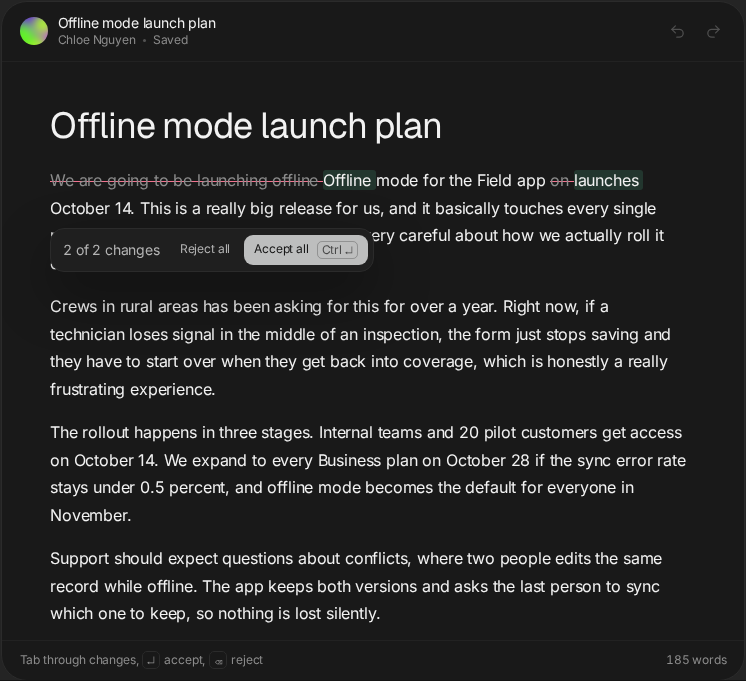
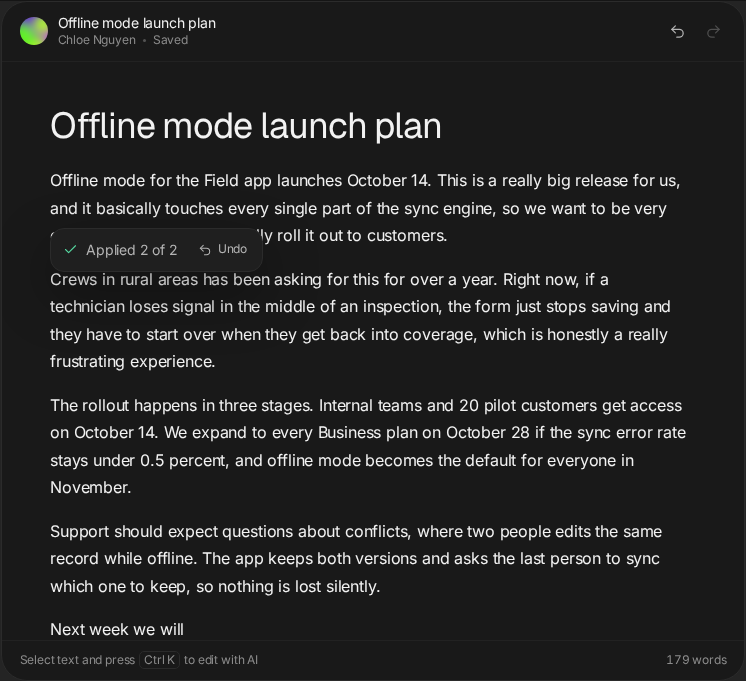
gnhf 10: Iteration 10 delivered the C7 evidence (25 committed same-size Runes-vs-Arc side-by-side comparisons at 1440x900 and 390x844 with an 18-row differences table under docs/screenshots/ai-inline-edit-compare/) and repaired two C1 reference-integrity defects (replaced the duplicated "applied rec

Changed region(s): [[0.0308, 0.2467, 0.9249, 0.9868], [0.8941, 0.9559, 0.9249, 0.9868], [0.8941, 0.0308, 0.9249, 0.0617]]

diff --git a/docs/screenshots/ai-inline-edit-compare/README.md b/docs/screenshots/ai-inline-edit-compare/README.md
@@ -1,0 +1,103 @@
+# Runes AI vs Arc UI reference — same-size side-by-side comparisons
+
+Every file in this folder is a two-panel comparison: **left = Arc UI public demo**, **right =
+Runes AI on this branch**. Both panels are crops of full screenshots taken at the **same viewport
+size**, with the **same crop rule** (full viewport width, `y = 10`, 760 px tall at 1440x900 and
+704 px tall at 390x844), so nothing is cropped horizontally on either side and the two panels of a
+pair are pixel-for-pixel the same dimensions.
+
+| Viewport tag | Size | Used for |
+| --- | --- | --- |
+| desktop | 1440x900 | `compare-01` … `compare-20`, `compare-25` |
+| narrow | 390x844 | `compare-21` … `compare-24` |
+
+## How each side was captured
+
+- **Arc panels** (`arc-*-desktop`, `arc-*-narrow`): the public previews
+  `uiarc.dev/components/blocks/ai-inline-edit` and `uiarc.dev/components/ghost-text`, driven with
+  headless Chromium (selection set programmatically, then real clicks/keys), captured 2026-11-01.
+  Visual/behavior reference only — no Pro source, markup or assets were taken. The tight per-state
+  crops stay in [`../ai-inline-edit-reference/`](../ai-inline-edit-reference/README.md) with the
+  observed-vs-described labels.
+- **Runes panels** (`runes-*-desktop`, `runes-*-narrow`): a local `next dev` server on this branch,
+  driven with Playwright + headless Chromium through the real Monaco editor (pointer clicks, real
+  keys, `Ctrl+S`), authenticated with the repo's `DEV_AUTH_BYPASS` dev session.
+- **No live AI provider key exists in this environment.** The Runes answers come from the
+  development-only, env-gated stub (`src/lib/ai-dev-stub.ts`, `AI_DEV_STUB=1`), which replaces only
+  the provider *reply*; auth, writable-document checks, quota, the single active slot,
+  protected-token masking/restore, size caps and the 15 s timeout still run on it. Text is therefore
+  deterministic (`Overall, …`, filler removal, contraction expansion) and **no pair proves the
+  behaviour of a real model**.
+- Runes frames use **Code view** (source only). Markdown pairs use a `.md` document; the ghost-text
+  desktop frames use a `.tex` document, and `../ai-inline-edit-runes/ghost/10-markdown-accepted.png`
+  shows the same flow in Markdown.
+
+## Pairs
+
+| File | State compared |
+| --- | --- |
+| `compare-01-inline-idle.png` | Idle editor + shortcut hint |
+| `compare-02-inline-selection-bubble.png` | Eligible selection with the Edit bubble |
+| `compare-03-inline-prompt-quick-actions.png` | Prompt with quick actions |
+| `compare-04-inline-typed-instruction.png` | Bounded free instruction typed |
+| `compare-05-inline-streaming-stop.png` | Streaming with Stop |
+| `compare-06-inline-review-open.png` | Word-diff review, nothing decided yet |
+| `compare-07-inline-review-focused-change.png` | One change focused after `Tab` |
+| `compare-08-inline-accepted-change.png` | Per-change accept |
+| `compare-09-inline-rejected-change.png` | Per-change reject |
+| `compare-10-inline-applied-receipt.png` | Applied receipt with Undo |
+| `compare-11-inline-ghost-text.png` | Ghost suggestion in the document |
+| `compare-12-inline-ghost-accepted.png` | Ghost accepted with Tab |
+| `compare-13-ghost-idle.png` | Idle status chip |
+| `compare-14-ghost-thinking.png` | Thinking (~450 ms debounce) |
+| `compare-15-ghost-partial-stream.png` | Mid-stream frame |
+| `compare-16-ghost-tab-ready.png` | Ready with the Tab hint |
+| `compare-17-ghost-word-accept.png` | Word accept, remainder kept |
+| `compare-18-ghost-fully-accepted.png` | Whole suggestion accepted |
+| `compare-19-ghost-dismissed.png` | Escape dismissed, source unchanged |
+| `compare-20-ghost-no-suggestion.png` | No suggestion + Retry |
+| `compare-21-narrow-inline-idle.png` | Narrow (390x844) idle editor |
+| `compare-22-narrow-inline-prompt.png` | Narrow prompt after `Ctrl+K` |
+| `compare-23-narrow-inline-review.png` | Narrow review card |
+| `compare-24-narrow-ghost-ready.png` | Narrow ghost + chip after a resize |
+| `compare-25-inline-refusal-runes-only.png` | Ineligible-trigger refusal — **no reference frame exists** (the public demo exposes no error/unavailable state), the left panel says so |
+
+## Differences table
+
+"Unavoidable" means a Monaco/Runes-chrome constraint the plan already allows
+(`docs/ai-inline-edit-plan.md` §User flow 4, §Ghost text 5); "By plan" means a deliberate product
+decision; "Polish" means it could be aligned further.
+
+| # | State | Arc reference | Runes AI | Type |
+| --- | --- | --- | --- | --- |
+| 1 | Idle | Hint sits in the document card footer next to a word count | Same wording, in the editor toolbar row (a code editor has no card footer) | Unavoidable |
+| 2 | Edit bubble | Dark pill `Edit ⌘K` above the selection | Light pill `Edit Ctrl K` beside the selection, using Runes design tokens; also reachable by `Ctrl/Cmd+K` and touch | Polish (theme) |
+| 3 | Prompt | Instruction input **above** a 5-row listbox (Shorten, Make clearer, Friendlier tone, More formal, Fix grammar); hint "↑ ↓ to choose, ↵ to run" | Four quick-action chips (**by plan**: Shorter, Clearer, Formal, Fix grammar) **above** the instruction field, plus a selection preview, a `0/500` counter and an explicit `Rewrite` button | By plan |
+| 4 | Streaming | Pending words shimmer **inside** the paragraph; bar "Editing … Stop esc" | Anchored card: "Editing", `Stop`, `esc`, skeleton progress and the word diff revealed word by word; the model text is never touched | Unavoidable (no provisional text in the Monaco model) |
+| 5 | Review | In-place `del`/`ins` marks in the paragraph; floating bar "2 of 2 changes / Reject all / Accept all Ctrl ↵" | Anchored `REVIEW CHANGES` card with the same marks, `del` struck through and `ins` underlined **plus text labels**, a per-change decision superscript, and an explicit `Apply` step | Unavoidable (Monaco) + by plan (explicit Apply, labels) |
+| 6 | Review counter | Counts changes present ("2 of 2 changes") | Counts **decisions made** ("0 of 2 changes"), and `Apply` stays disabled with the reason "2 of 2 changes still need a decision" | By plan |
+| 7 | Focused change | No focus ring could be captured; the demo needs genuine focus | `ring-1 ring-action` + `aria-current="true"` on the focused change after `Tab` | Polish (reference limitation) |
+| 8 | Per-change accept/reject | Exposes buttons named "Accept change" / "Reject change" per hunk, but synthetic clicks and keys left the bar text and the `del`/`ins` set unchanged — the reference frames stay the review frame | `Enter` accepts and `Backspace` rejects the focused change visibly (`ACCEPTED` / `REJECTED` superscript, counter advances); `Ctrl/Cmd+Enter` accepts the rest | By plan (reference not observable) |
+| 9 | Applied receipt | Bar "Applied 2 of 2 / Undo" | Bar "Applied 2 of 2 / Undo / Close" (Close mirrors `Esc`); the applied edit is one Monaco undo step | Polish |
+| 10 | Ghost text | Muted italic continuation inside the demo's textarea mirror | Monaco native `ghost-text-decoration` (no mirrored textarea) | Unavoidable |
+| 11 | Ghost chip | Bottom-right of the card: model name → "Accepted" / "Couldn't get a suggestion" + Retry | Top-right of the editor: the **real configured model name** when one is set, otherwise the fallback label `AI complete` (`src/lib/ghost-text.ts:112`) → `Thinking…` → `Tab to accept` + `Accept` → `No suggestion` + `Retry`, mirrored to an `aria-live` polite region. No key exists in this environment, so the captured idle frames show `AI complete` rather than a model name | Unavoidable (Monaco chrome) + by plan (real model name, announcements) |
+| 12 | Partial stream | Suggestion grows phrase by phrase (observed via DOM: first phrase ~900 ms, all phrases by ~1.1 s) | Paints once when the stream settles; chip shows `Thinking…` meanwhile — Monaco 0.55.1 dedupes re-requests for the same version+position | Unavoidable (Monaco 0.55.1) |
+| 13 | Word accept | `Ctrl →` commits one word, remainder stays ghosted | `Ctrl/Cmd+Right` (and `Alt+Right` where free) commits one word, remainder re-offered without refetching; parity | — |
+| 14 | Dismiss | Escape removes the ghost, text unchanged | Escape removes the ghost and the run was verified **zero-byte** by reading the saved file back from the server | Parity + extra proof |
+| 15 | No suggestion | "Couldn't get a suggestion" + Replay/Retry | "No suggestion" + `Retry` chip, typing is never blocked | Polish (wording) |
+| 16 | Narrow layout | Card chip row wraps under the text | Cards are width-capped (`min(24rem, 100vw-2rem)`) and every control gains a `[@media(pointer:coarse)]:min-h-11` touch target | Polish |
+| 17 | Dark mode | Site "Switch to dark mode" gives a dark variant of every demo | Runes has no theme system (light only), so **no dark pairs exist** here | Unavoidable (app-wide) |
+| 18 | Error / unavailable | Not exposed by the public demo (described only in the Pro API reference) | Honest refusal card, e.g. "Caret is not on a prose line", with zero source change | By plan |
+
+## Honest gaps in this set
+
+- Panels 7 and 8: what Arc *does* on per-change accept/reject is **not** shown — the public demo's
+  per-change controls did not respond to synthetic clicks or keys, so the left panel of those two
+  pairs is the still-open review. The Runes side is the only side that demonstrates the behavior.
+- Panel 15 is labelled "mid-stream" but the Runes frame shows the `Thinking…` chip with no partial
+  words (row 12 above); the Arc frame shows one phrase. That asymmetry is the point of the pair.
+- The Arc frames in these pairs come from the same scripted demos as the reference folder, i.e.
+  simulated content ("Simulated, nothing is sent"); Runes frames come from the dev stub. Neither
+  side shows a real model's output.
+- Touch tap-to-accept is not shown: no touch device emulation frame was captured, only the
+  `pointer:coarse` target sizing noted in row 16.

diff --git a/docs/screenshots/ai-inline-edit-reference/README.md b/docs/screenshots/ai-inline-edit-reference/README.md
@@ -34,8 +34,8 @@ programmatically on paragraph 1, then the flow advanced by clicking/typing exact
 | `inline-streaming-stop-*` | Rewriting: anchored bar "Editing ... Stop esc", shimmering pending words in the paragraph | DIRECTLY OBSERVED |
 | `inline-review-focused-*` | Review: strike-through deletions + underline insertions with text labels, bar "2 of 2 changes / Reject all / Accept all Ctrl ↵", footer hints "Tab through changes, ↵ accept, ⌫ reject" | DIRECTLY OBSERVED |
 | `inline-review-tab-cycle-*` | After pressing Tab with caret in the edited paragraph | ONLY DESCRIBED - no visible per-change focus indicator was captured; automation could not reliably land focus on one change |
-| `inline-accepted-change-*` / `inline-rejected-change-*` | Per-change Enter accept / Backspace reject | ONLY DESCRIBED (footer hints show them). One manual attempt ended the whole review with the "Kept the original" receipt (that rejection receipt was observed once); steady captures show the still-open review |
-| `inline-applied-receipt-*` | Ctrl+Enter "accepts the rest" -> bar becomes "Applied 2 of 2 / Undo" | DIRECTLY OBSERVED |
+| `inline-accepted-change-*` / `inline-rejected-change-*` | Per-change Enter accept / Backspace reject | ONLY DESCRIBED. The review DOM does expose one pair of buttons per hunk, `aria-label="Accept change"` and `aria-label="Reject change"` (`[class*="hunkButton"]`, `tabindex="-1"`), which is itself directly observed; but clicking them and sending `Tab`/`Enter`/`Backspace` left both the bar text ("2 of 2 changes Reject all Accept all Ctrl ↵") and the `del`/`ins` set byte-identical, so those two files are the still-open review frame, not a decided-change frame. One manual attempt ended the whole review with the "Kept the original" receipt (observed once). See `../ai-inline-edit-compare/compare-08/09` for the same finding next to the working Runes behavior |
+| `inline-applied-receipt-*` | "Accept all Ctrl ↵" -> bar becomes "Applied 2 of 2 / Undo" | DIRECTLY OBSERVED (re-captured 2026-11-01: the earlier desktop `light`/`dark` files were accidental duplicates of the review frame; they were replaced with frames where the bar reads "Applied 2 of 2 Undo", verified from the demo's own bar text before capture) |
 | `inline-accept-all-applied-desktop-*` | Clicking "Accept all" -> "Applied 2 of 2 / Undo", replacement text merged into the paragraph | DIRECTLY OBSERVED |
 | `inline-ghost-text-desktop-*` | Ghost continuation after "Next week we will" with hint "Tab to accept, esc to dismiss" (applied receipt also visible) | DIRECTLY OBSERVED |
 | `inline-ghost-accepted-desktop-*` | Ghost committed with Tab | DIRECTLY OBSERVED |
@@ -52,7 +52,7 @@ documented ~450 ms debounce.
 | --- | --- | --- |
 | `ghost-idle-*` | Idle card, chip shows model name | DIRECTLY OBSERVED |
 | `ghost-thinking-*` | ~180 ms after typing stopped | ONLY DESCRIBED - a distinct "Thinking" chip label was not captured in any frame; the chip kept the model name at the sampled moments |
-| `ghost-partial-stream-*` | Suggestion arriving (~1 s after typing stops) | DIRECTLY OBSERVED |
+| `ghost-partial-stream-*` | Suggestion arriving (~1 s after typing stops) | ONLY DESCRIBED as a distinct frame. The three `ghost-partial-stream-*` files are byte-identical to the matching `ghost-tab-ready-*` files: the demo inserts all three suggestion phrases in one DOM update and only the per-phrase opacity fade differs, so a frame with a strict prefix of the suggestion visible was not capturable (DOM poll: first phrase present ~900 ms, all phrases present by ~1.1 s, fades complete ~1.4 s; several timed captures and an 8x CPU-throttled attempt all missed the window). Several earlier re-capture attempts were reverted rather than relabelled as a partial frame |
 | `ghost-tab-ready-*` | Full muted suggestion + chip row "Ctrl -> word / Esc dismiss / Tab to accept" | DIRECTLY OBSERVED |
 | `ghost-word-accept-remainder-*` | After Ctrl+Right: first words committed, remainder still ghosted | DIRECTLY OBSERVED |
 | `ghost-fully-accepted-*` | After Tab: full text committed, chip "Accepted" | DIRECTLY OBSERVED |

diff --git a/docs/screenshots/ai-inline-edit-runes/README.md b/docs/screenshots/ai-inline-edit-runes/README.md
@@ -36,7 +36,7 @@ user action.
 | `md-07-review-accepted.png` | `Ctrl+Enter` accepted the rest | Pressed `Control+Enter` |
 | `md-08-receipt.png` | Receipt `Applied 2 of 2` with `Undo` | Clicked `Apply` (one undoable Monaco edit) |
 | `md-09-applied-editor.png` | Model after the accepted edit (protected `` `pytest` `` intact) | Same run |
-| `md-10-after-undo.png` | `Undo` pressed from the receipt (the byte-exact round trip is asserted in `save-03-after-undo.png`) | Clicked `Undo` on the receipt |
+| `save-03-after-undo.png` | `Undo` from the receipt restores the exact original bytes (full 1440x900 frame; the byte round trip is asserted by re-reading the saved file) | Clicked `Undo` on the receipt, then `Ctrl+S` |
 | `md-11-ctrlk-prompt.png` | `Ctrl+K` with only a caret opens the prompt on the sentence at the caret | Clicked in a sentence, pressed `Control+K` |
 | `md-12-prompt-typed.png` | Typed free instruction with the live `0/500` counter | Typed `make it warmer` |
 | `md-12b-free-instruction-review.png` | Review produced from a free instruction | Pressed `Enter` in the instruction field |
@@ -83,8 +83,9 @@ document (fresh Monaco mount, fresh provider state); text is read back from the 
   (`Overall, …`, filler removal, contraction expansion) rather than intelligent.
 - Touch tap-to-accept and a real mobile touch selection are not shown here; the bubble and cards
   carry `[@media(pointer:coarse)]:min-h-11` touch targets, but no touch-device capture exists yet.
-- Side-by-side Runes-vs-Arc comparison pairs and the differences table are still to be produced
-  from these files (plan §"Screenshot reference and visual match").
+- Side-by-side Runes-vs-Arc pairs and the differences table now live in
+  [`../ai-inline-edit-compare/`](../ai-inline-edit-compare/README.md) (25 pairs, both sides captured
+  at 1440x900 and 390x844 with the same crop rule).
 - Ghost streaming: the route does stream NDJSON deltas, but the editor paints the ghost once at
   `done` rather than word-by-word while thinking. Monaco 0.55 dedupes re-requests for the same
   position/version, so mid-stream repaints are suppressed; the chip shows `Thinking…` meanwhile.
@@ -92,5 +93,7 @@ document (fresh Monaco mount, fresh provider state); text is read back from the 
   the CDN Monaco 0.55 EditContext build; at a normal ~130 ms/char cadence zero keystrokes were
   lost across the full journey. Worth a targeted retest on real typing (or a Monaco upgrade)
   before claiming burst-typing safety.
-- The Markdown/preview split occupies the left half at 1440 px, so Runes frames are not pixel
-  aligned with the Arc demo frames; see the pending differences table.
+- The inline-run frames above were captured in the default split view, so the Monaco source pane
+  occupies the left half at 1440 px; the comparison panels in `../ai-inline-edit-compare/` were
+  re-captured in Code view (full-width source) so both sides line up. Ghost frames already use Code
+  view.
